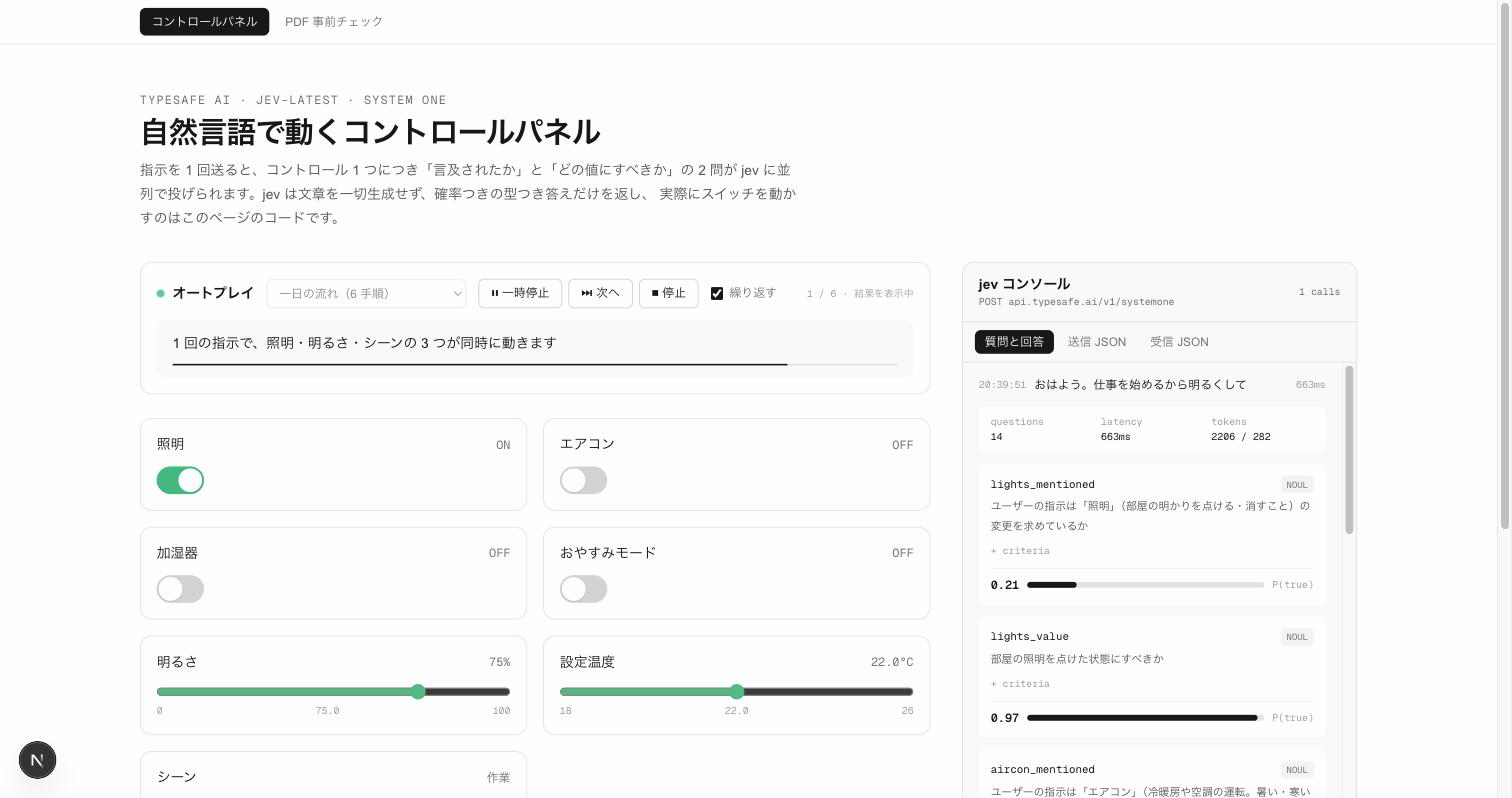
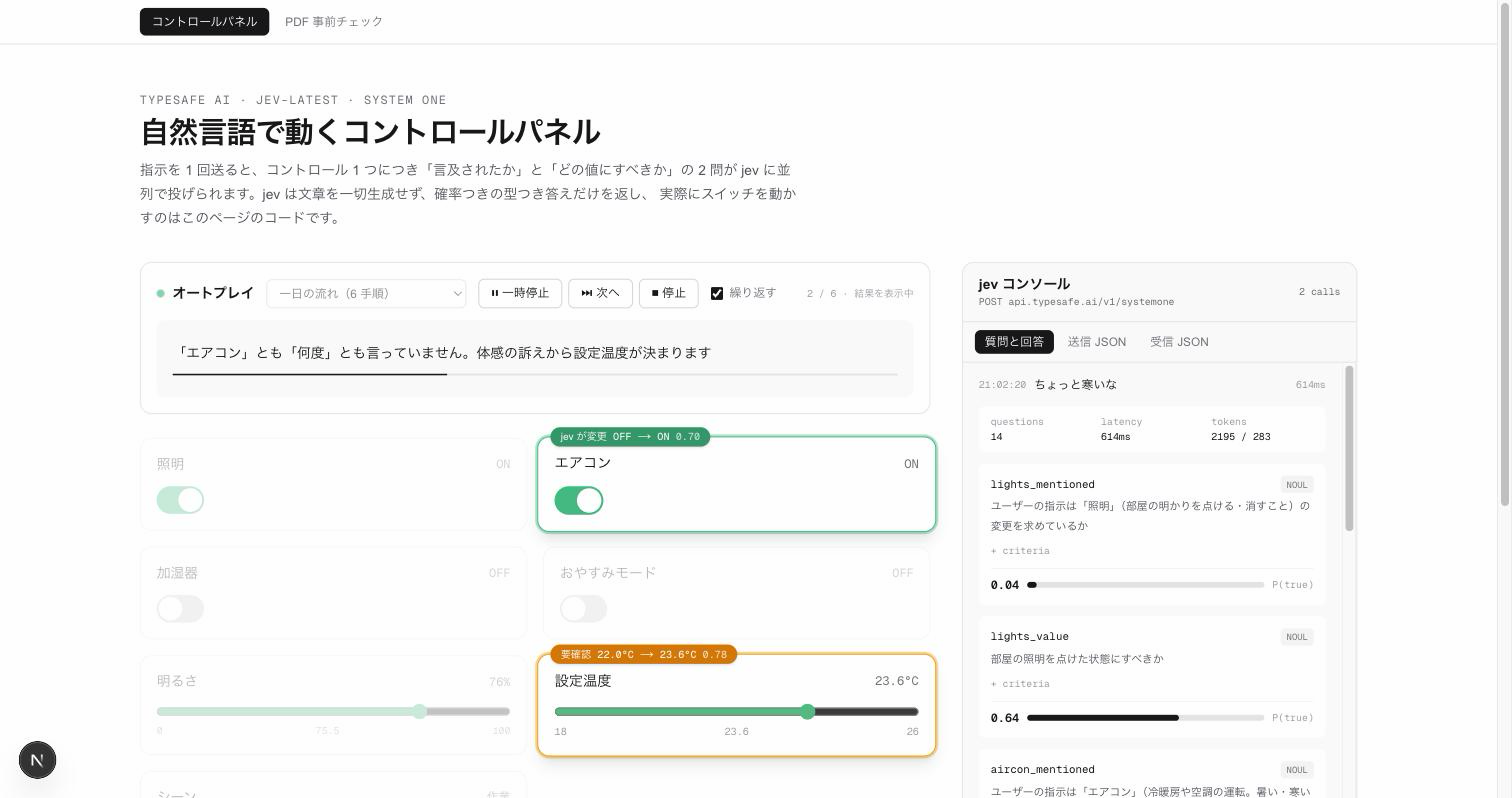
feat: オートプレイに注目ポイント表示を追加し、高さのブレを止める
展示会で、来場者が画面のどこを見ればよいか分かるようにする。

- jev が動かしたコントロールにリングと吹き出しを重ね、動かなかった
  ものを薄くする。吹き出しには変化と確信度を出し、確認を挟むものは
  橙色で「要確認」と表示する
- 表示はオートプレイ中だけ。手で操作しているときは邪魔になる

あわせて、再生中にオートプレイ欄の高さが変わり、下のコントロール
パネルが上下にずれる問題を直した。説明文・中断の通知・停止中の
いずれも同じ高さの枠に収め、フェーズ表示は 1 行に収まる短さにした。
「確認待ち（まもなく自動で承認します）」が折り返して 27px ずれていた。

diff --git a/app/autoplay-bar.tsx b/app/autoplay-bar.tsx
@@ -3,17 +3,18 @@
 import type { AutoplayControls, AutoplayPhase } from "@/lib/use-autoplay";
 import type { Scenario } from "@/lib/scenarios";
 
+// 1 行に収まる短さにする。長いと上段が折り返して、
+// コントロールパネル全体が上下にずれてしまう。
 const PHASE_LABELS: Record<AutoplayPhase, string> = {
   idle: "停止中",
-  resetting: "初期状態に戻しています",
+  resetting: "初期化",
   typing: "入力中",
-  sending: "jev に問い合わせ中",
-  retrying: "失敗したのでやり直します",
-  suspended: "中断中（復帰を待っています）",
-  confirming: "確認待ち（まもなく自動で承認します）",
-  holding: "結果を表示中",
+  sending: "問い合わせ中",
+  retrying: "再試行",
+  suspended: "中断中",
+  confirming: "確認待ち",
+  holding: "表示中",
 };
-
 export default function AutoplayBar({
   scenarios,
   scenario,
@@ -120,50 +121,54 @@ export default function AutoplayBar({
           繰り返す
         </label>
 
-        <span className="ml-auto font-mono text-[10px] text-zinc-400">
+        <span className="ml-auto shrink-0 whitespace-nowrap font-mono text-[10px] text-zinc-400">
           {running
             ? `${Math.max(stepIndex + 1, 1)} / ${scenario.steps.length} · ${PHASE_LABELS[phase]}`
-            : scenario.description}
+            : PHASE_LABELS.idle}
         </span>
       </div>
 
-      {suspended && (
-        <div className="flex flex-wrap items-center gap-3 rounded-lg border border-red-300 bg-red-50 px-4 py-3 dark:border-red-900 dark:bg-red-950/50">
-          <div className="min-w-0 flex-1">
-            <p className="text-sm font-semibold text-red-900 dark:text-red-200">
-              jev への問い合わせが {failures} 回続けて失敗しました
-            </p>
-            <p className="mt-0.5 text-xs leading-5 text-red-800 dark:text-red-300">
-              シナリオを進めずに、同じ手順で再試行しています
-              {remaining > 0 && `（あと ${Math.ceil(remaining / 1000)} 秒）`}。
-              {lastError && (
-                <span className="ml-1 font-mono text-[10px] opacity-80">
-                  {lastError}
-                </span>
-              )}
-            </p>
+      {/*
+        再生中に高さが変わると、下のコントロールパネルが上下にずれて
+        肝心の操作から目が離れてしまう。説明・中断・停止中のいずれも
+        同じ高さの枠に収める。
+      */}
+      <div className="flex min-h-[78px] flex-col justify-center gap-2 rounded-lg bg-zinc-50 px-4 py-3 dark:bg-zinc-900">
+        {suspended ? (
+          <div className="flex items-center gap-3">
+            <div className="min-w-0 flex-1">
+              <p className="text-sm font-semibold text-red-700 dark:text-red-300">
+                jev への問い合わせが {failures} 回続けて失敗しました
+              </p>
+              <p className="truncate text-xs leading-5 text-red-700/80 dark:text-red-300/80">
+                同じ手順で再試行しています
+                {remaining > 0 && `（あと ${Math.ceil(remaining / 1000)} 秒）`}
+                {lastError && ` · ${lastError}`}
+              </p>
+            </div>
+            <button
+              type="button"
+              onClick={autoplay.skip}
+              className="shrink-0 rounded-md border border-red-400 px-3 py-1.5 text-xs text-red-700 dark:border-red-800 dark:text-red-300"
+            >
+              今すぐ再試行
+            </button>
           </div>
-          <button
-            type="button"
-            onClick={autoplay.skip}
-            className="rounded-md border border-red-400 px-3 py-1.5 text-xs text-red-900 dark:border-red-800 dark:text-red-200"
-          >
-            今すぐ再試行
-          </button>
-        </div>
-      )}
-
-      {step && !suspended && (
-        <div className="flex flex-col gap-2 rounded-lg bg-zinc-50 px-4 py-3 dark:bg-zinc-900">
+        ) : step ? (
           <p className="text-sm leading-6">{step.note}</p>
-          <span className="h-0.5 overflow-hidden rounded-full bg-zinc-200 dark:bg-zinc-800">
-            <span
-              className="block h-full rounded-full bg-zinc-900 transition-[width] duration-100 ease-linear dark:bg-zinc-100"
-              style={{ width: `${Math.round(progress * 100)}%` }}
-            />
-          </span>
-        </div>
-      )}
+        ) : (
+          <p className="text-sm leading-6 text-zinc-500">
+            {scenario.description}
+          </p>
+        )}
+
+        <span className="h-0.5 overflow-hidden rounded-full bg-zinc-200 dark:bg-zinc-800">
+          <span
+            className="block h-full rounded-full bg-zinc-900 transition-[width] duration-100 ease-linear dark:bg-zinc-100"
+            style={{ width: `${Math.round(progress * 100)}%` }}
+          />
+        </span>
+      </div>
     </section>
   );
 }

diff --git a/app/control-panel.tsx b/app/control-panel.tsx
@@ -33,6 +33,8 @@ export default function ControlPanel() {
   const [plan, setPlan] = useState<CommandPlan | null>(null);
   const [pending, setPending] = useState<PlanItem[]>([]);
   const [entries, setEntries] = useState<ConsoleEntry[]>([]);
+  // 直近の指示で jev が動かしたコントロール。オートプレイ中の注目表示に使う
+  const [spotlight, setSpotlight] = useState<PlanItem[]>([]);
   const [inFlight, setInFlight] = useState<string | null>(null);
   const [flashing, setFlashing] = useState<string[]>([]);
   const [scenarioId, setScenarioId] = useState(SCENARIOS[0].id);
@@ -68,6 +70,7 @@ export default function ControlPanel() {
       setError(null);
       setPlan(null);
       setPending([]);
+      setSpotlight([]);
 
       const id = `${Date.now()}-${Math.random().toString(36).slice(2, 7)}`;
       const at = new Date().toLocaleTimeString("ja-JP", { hour12: false });
@@ -94,6 +97,7 @@ export default function ControlPanel() {
           ...prev,
         ]);
         setPlan(data.plan);
+        setSpotlight(data.plan.items.filter((i) => i.verdict !== "unchanged"));
         applyItems(data.plan.items.filter((i) => i.verdict === "apply"));
         setPending(data.plan.items.filter((i) => i.verdict === "confirm"));
         return data;
@@ -134,6 +138,7 @@ export default function ControlPanel() {
     setPending([]);
     setError(null);
     setEntries([]);
+    setSpotlight([]);
   }, []);
 
   /** オートプレイ中は確認を待たずに自動で承認する。 */
@@ -152,6 +157,15 @@ export default function ControlPanel() {
     reset,
     setCommandText: setCommand,
   });
+
+  // 注目表示はオートプレイ中だけ。手で触っているときは邪魔になる
+  const spotlightMap = useMemo(
+    () =>
+      new Map(
+        autoplay.running ? spotlight.map((item) => [item.controlId, item]) : [],
+      ),
+    [autoplay.running, spotlight],
+  );
 
   return (
     <div className="mx-auto flex w-full max-w-7xl flex-col gap-8 px-6 py-12">
@@ -188,6 +202,8 @@ export default function ControlPanel() {
                 control={control}
                 value={state[control.id]}
                 flashing={flashing.includes(control.id)}
+                spotlight={spotlightMap.get(control.id) ?? null}
+                dimmed={spotlightMap.size > 0 && !spotlightMap.has(control.id)}
                 onChange={(next) =>
                   setState((prev) => ({ ...prev, [control.id]: next }))
                 }
@@ -345,21 +361,52 @@ function ControlCard({
   control,
   value,
   flashing,
+  spotlight,
+  dimmed,
   onChange,
 }: {
   control: Control;
   value: ControlValue;
   flashing: boolean;
+  /** jev がこのコントロールを動かしたときの内訳。注目表示に使う */
+  spotlight: PlanItem | null;
+  /** 今回の指示で動かなかったので、背景に下げる */
+  dimmed: boolean;
   onChange: (next: ControlValue) => void;
 }) {
+  const needsConfirm = spotlight?.verdict === "confirm";
+
   return (
     <div
-      className={`flex flex-col gap-3 rounded-xl border p-4 transition-colors duration-500 ${
-        flashing
-          ? "border-emerald-500 bg-emerald-50 dark:bg-emerald-950/40"
-          : "border-zinc-200 bg-white dark:border-zinc-800 dark:bg-zinc-950"
+      className={`relative flex flex-col gap-3 rounded-xl border p-4 transition-all duration-500 ${
+        spotlight
+          ? `z-10 scale-[1.03] bg-white shadow-lg dark:bg-zinc-950 ${
+              needsConfirm
+                ? "border-amber-500 ring-2 ring-amber-500/40"
+                : "border-emerald-500 ring-2 ring-emerald-500/40"
+            }`
+          : dimmed
+            ? "border-zinc-200 bg-white opacity-30 dark:border-zinc-800 dark:bg-zinc-950"
+            : flashing
+              ? "border-emerald-500 bg-emerald-50 dark:bg-emerald-950/40"
+              : "border-zinc-200 bg-white dark:border-zinc-800 dark:bg-zinc-950"
       }`}
     >
+      {spotlight && (
+        <span
+          className={`absolute -top-2.5 left-3 z-20 flex items-center gap-1.5 whitespace-nowrap rounded-full px-2.5 py-0.5 text-[10px] font-medium text-white shadow ${
+            needsConfirm ? "bg-amber-600" : "bg-emerald-600"
+          }`}
+        >
+          {needsConfirm ? "要確認" : "jev が変更"}
+          <span className="font-mono opacity-90">
+            {spotlight.fromLabel} → {spotlight.toLabel}
+          </span>
+          <span className="font-mono opacity-70">
+            {spotlight.confidence.toFixed(2)}
+          </span>
+        </span>
+      )}
       <div className="flex items-center justify-between">
         <span className="text-sm font-medium">{control.label}</span>
         <span className="font-mono text-xs text-zinc-500">

diff --git a/README.md b/README.md
@@ -128,6 +128,7 @@ PDF の解析は **ブラウザ内**（[unpdf](https://github.com/unjs/unpdf)）
 
 - 指示は**人が打っているように 1 文字ずつ**入力欄に現れてから送信されます
 - 手順ごとに観客向けの一言を表示します（何を見ればよいかを先に伝える）
+- **jev が動かしたコントロールだけを浮かび上がらせ、それ以外を沈めます**（下記）
 - 確認バーが出る手順では、数秒見せてから自動で承認します。曖昧な指示を jev が検出する様子そのものが見せ場なので、飛ばしません
 - 一時停止・次へ・停止・繰り返しに対応。停止すると手入力に戻ります
 - 繰り返しの先頭でパネルを初期状態に戻すので、何周しても同じ流れになります
@@ -142,6 +143,18 @@ PDF の解析は **ブラウザ内**（[unpdf](https://github.com/unjs/unpdf)）
   hold: 5500,
 }
 ```
+
+### 注目ポイントの表示
+
+展示会では、来場者が画面のどこを見ればよいのか分かりません。jev の応答が返った時点で、**動いたコントロールにリングと吹き出しを重ね、動かなかったものを薄くします**。
+
+吹き出しには `OFF → ON` のような変化と確信度が出ます。確認を挟むものは橙色で `要確認` と表示され、自動承認されるまでそのまま残ります。上のスクリーンショットでは「ちょっと寒いな」に対して、エアコン（緑・確定）と設定温度（橙・要確認）だけが浮かび上がっています。
+
+表示はオートプレイ中だけです。手で操作しているときに他が薄くなると邪魔になります。
+
+### 高さを固定する
+
+再生中にオートプレイ欄の高さが変わると、下のコントロールパネル全体が上下にずれて、肝心の操作から目が離れます。説明文・中断の通知・停止中のいずれも**同じ高さの枠**に収め、右上のフェーズ表示も 1 行に収まる短さにしてあります（`確認待ち（まもなく自動で承認します）` のような長い文言は折り返しを起こして 27px ずれました）。
 
 ### 連続失敗時の中断
 
